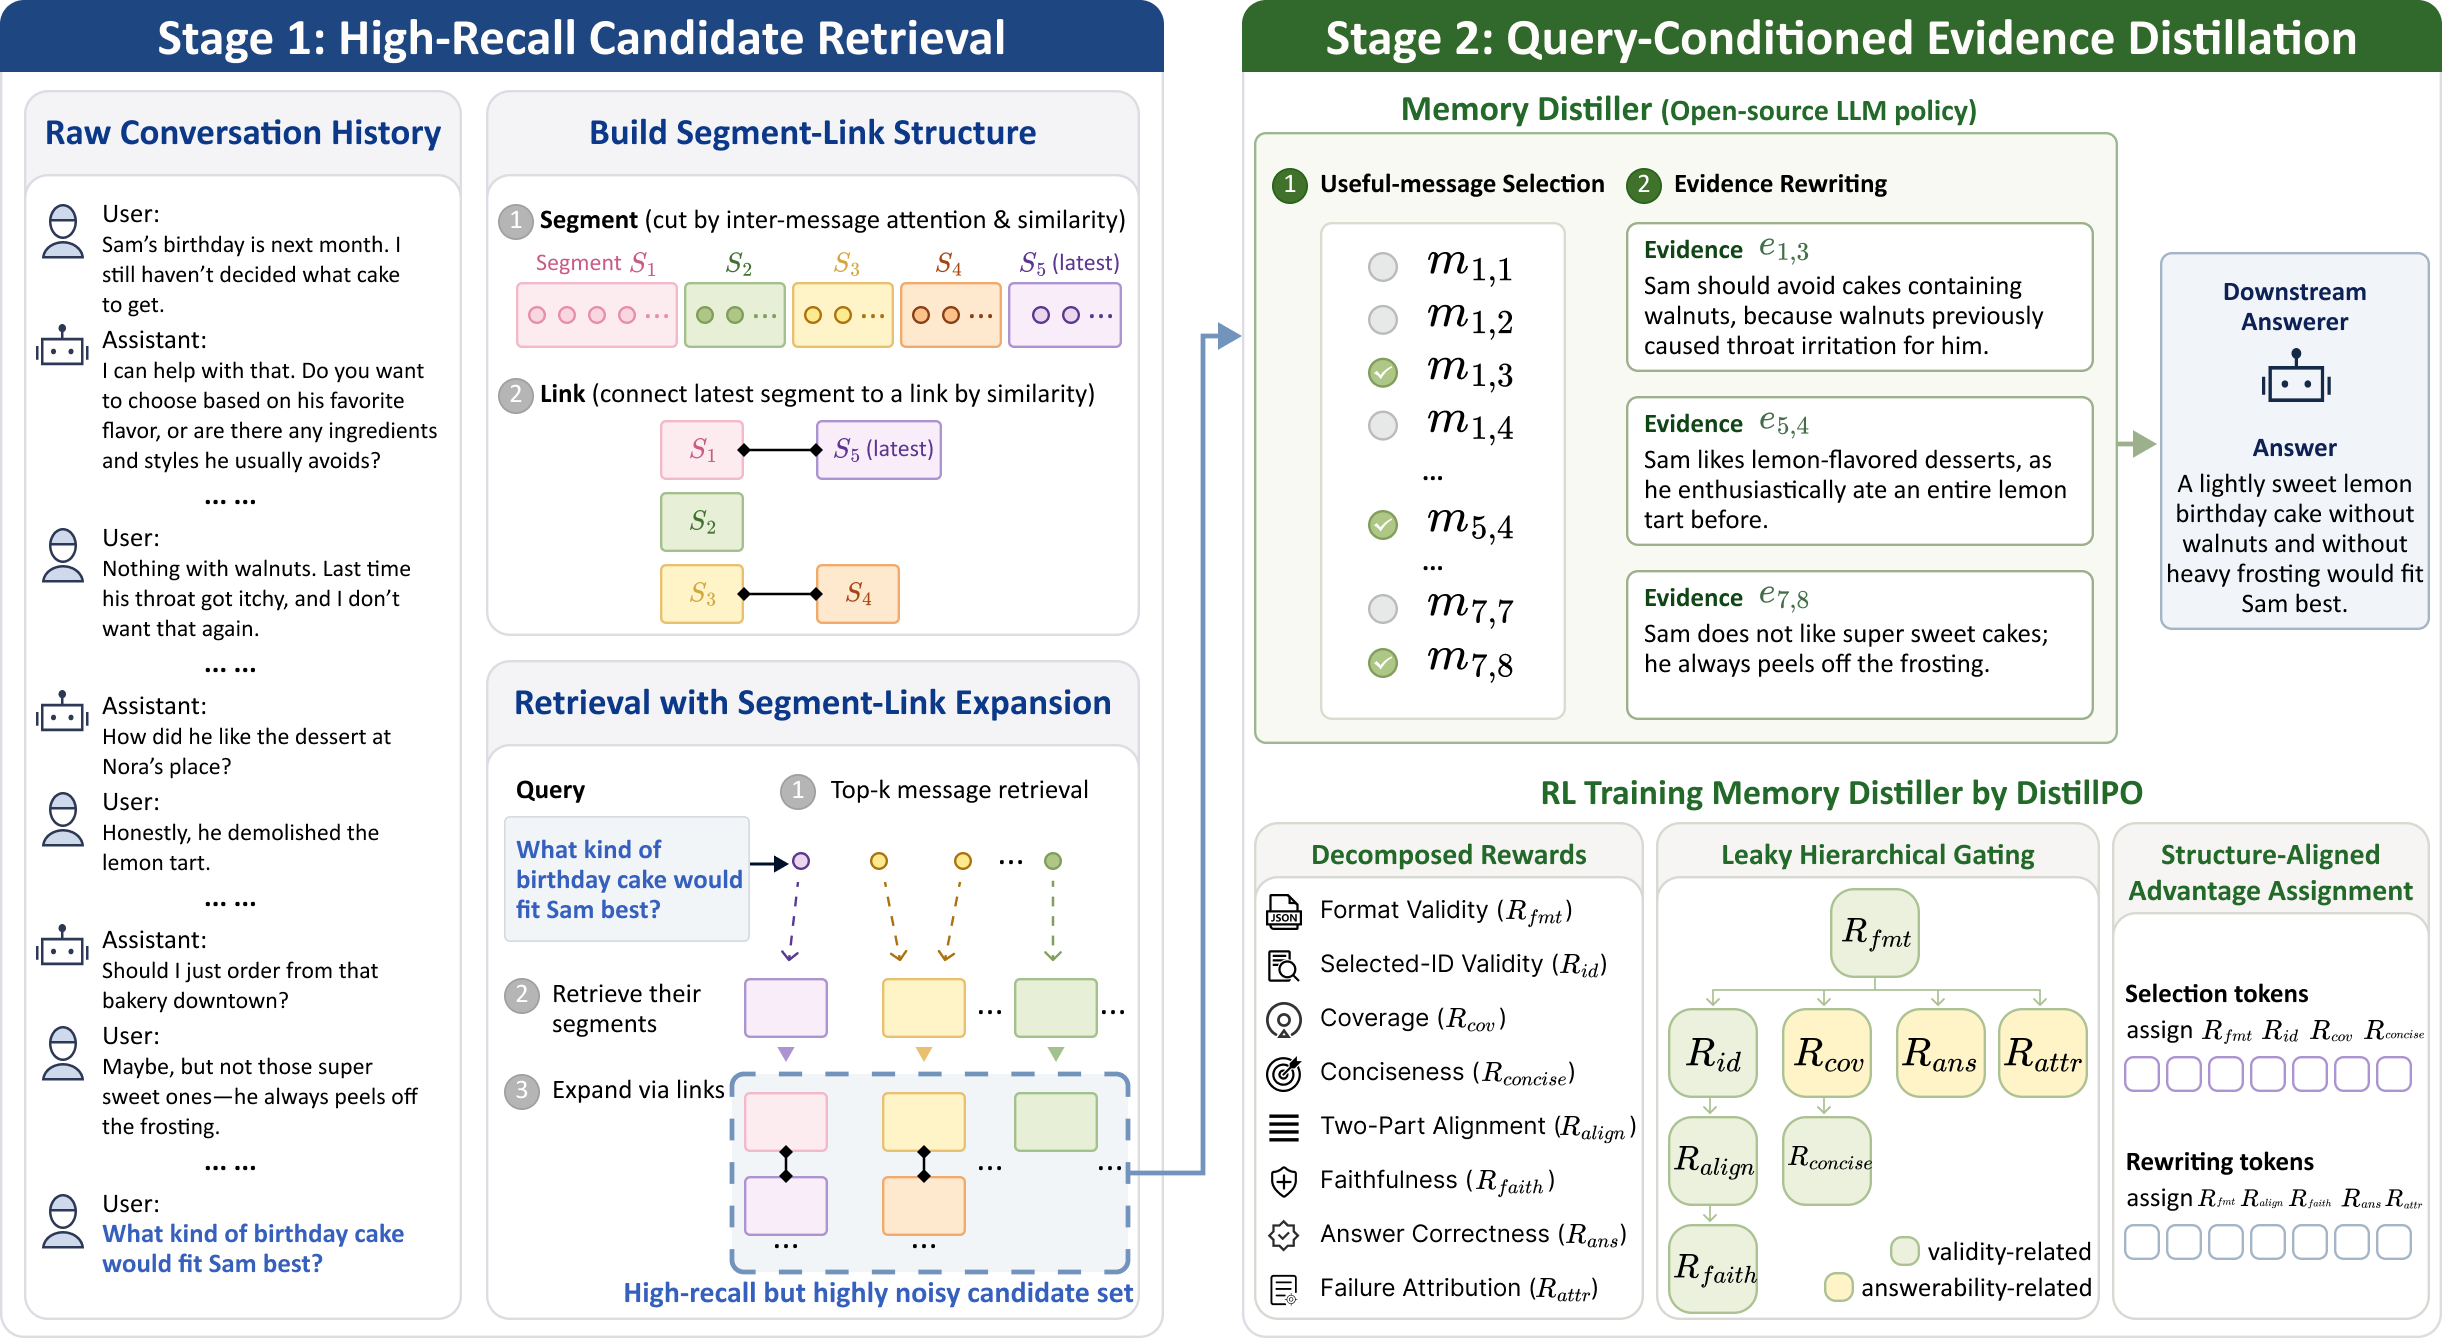
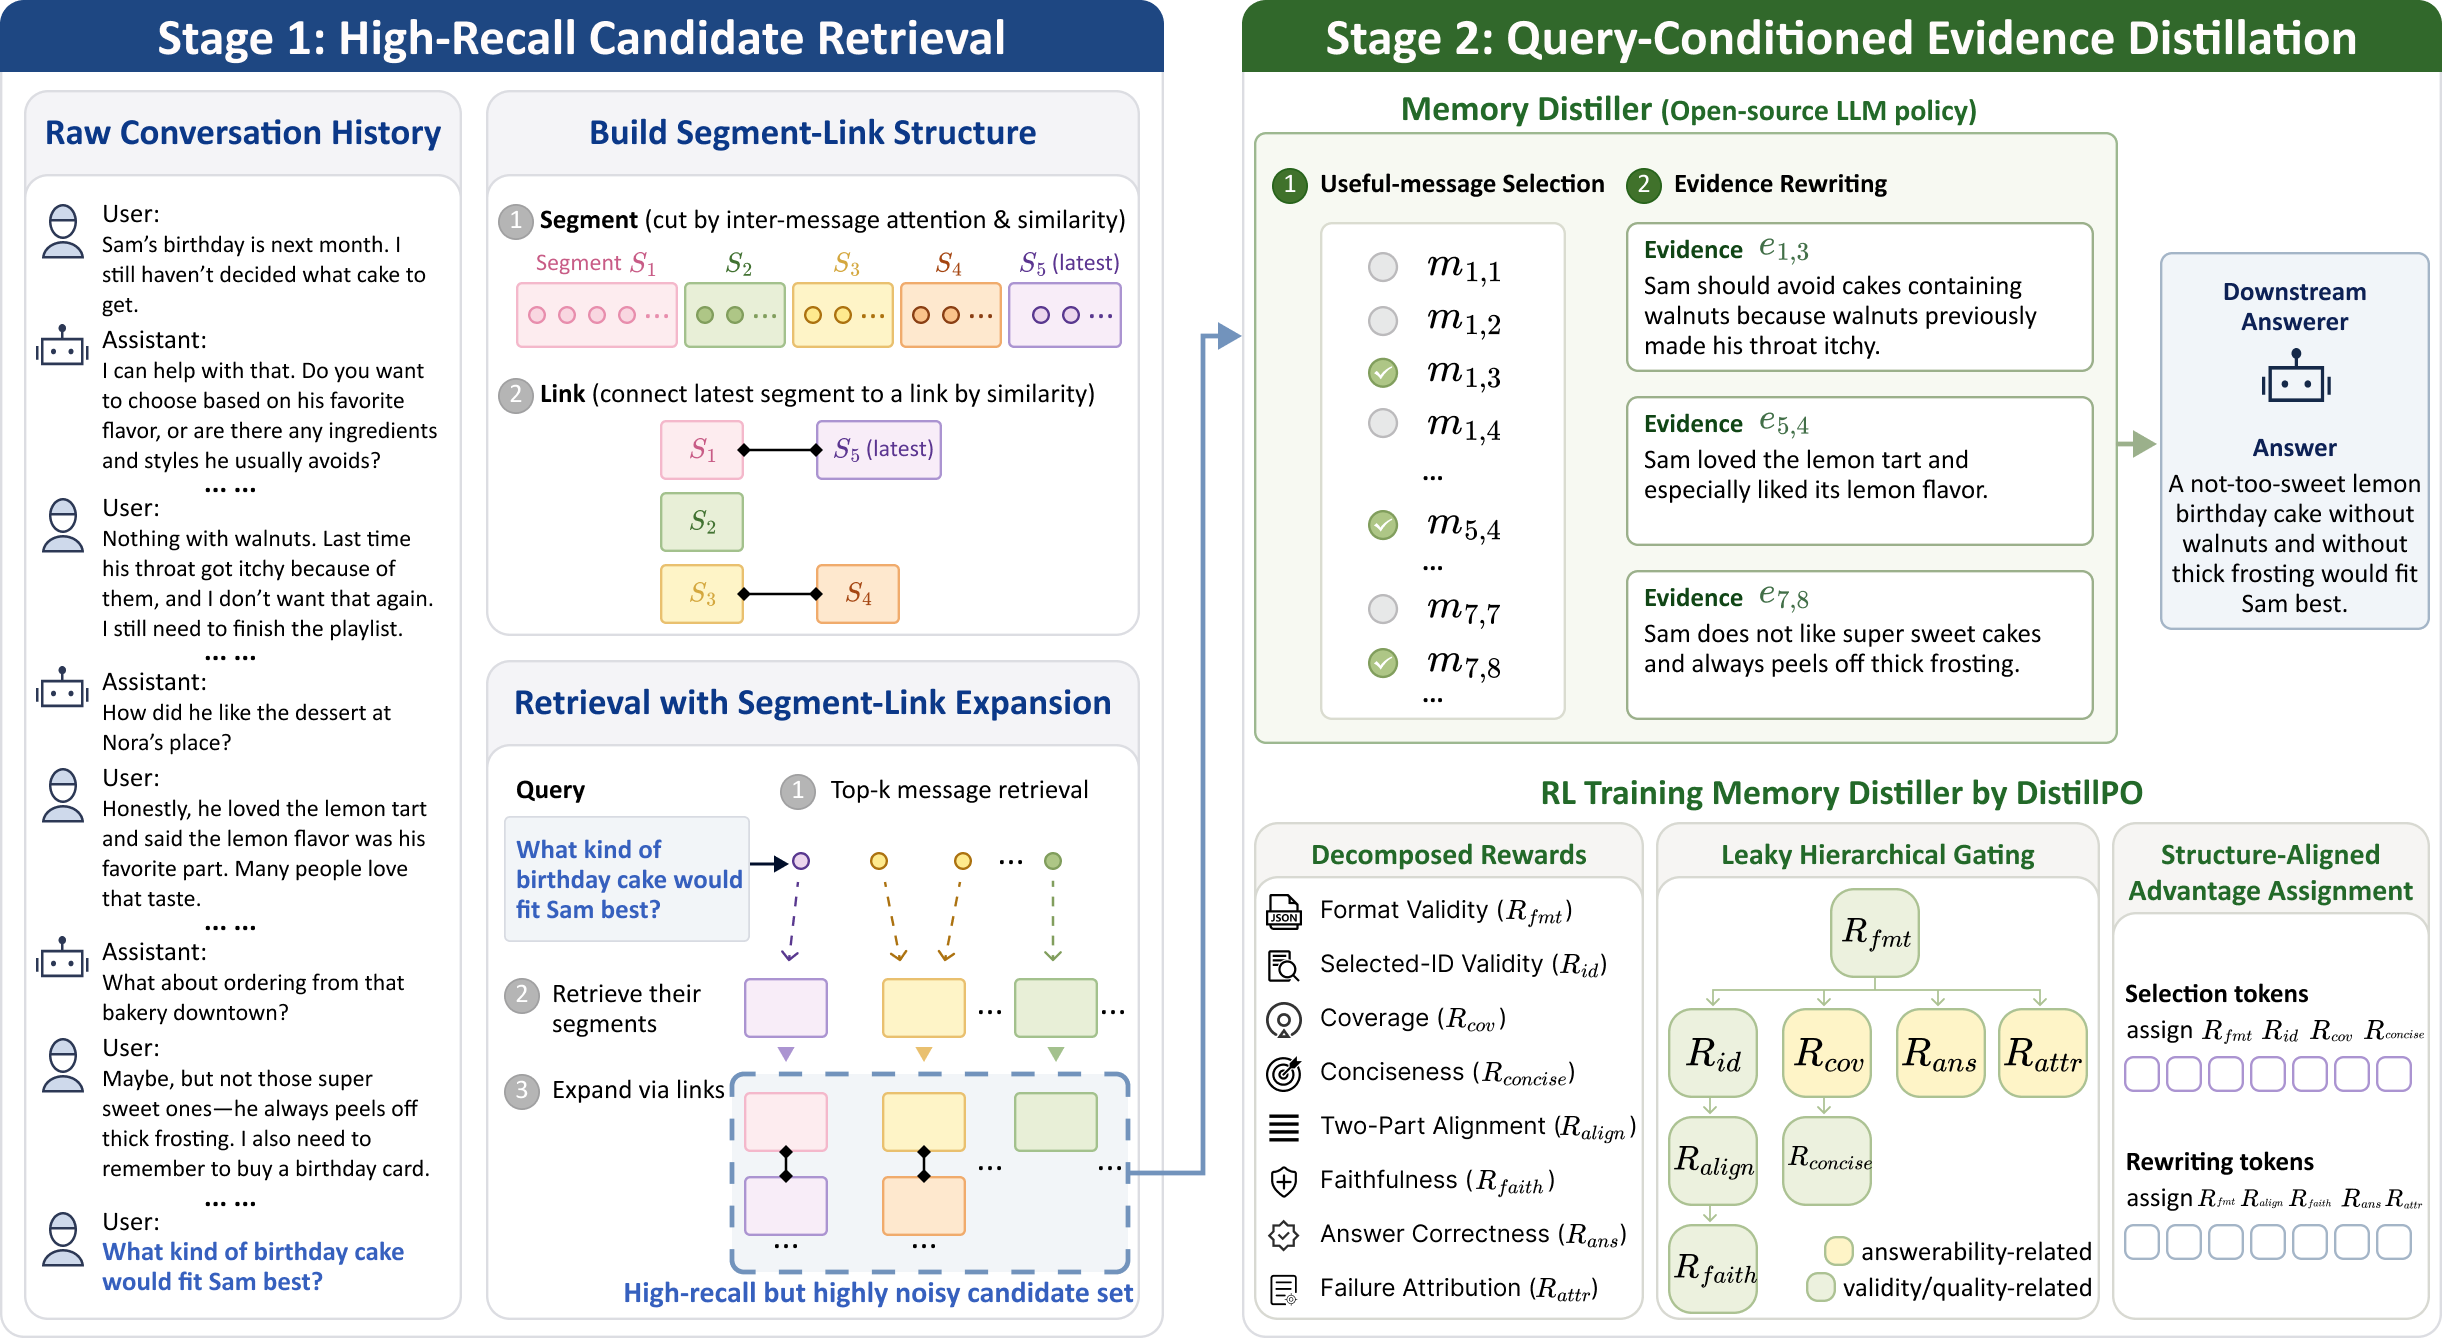
Update homepage

diff --git a/_pages/about.md b/_pages/about.md
@@ -53,9 +53,9 @@ IEEE Transactions on Visualization and Computer Graphics (VIS'26)
 <div class='paper-box'><div class='paper-box-image'><div><div class="badge">Preprint</div><img src='images/DeferMem.png' alt="sym" width="100%"></div></div>
 <div class='paper-box-text' markdown="1">
 
-[DeferMem: Query-Time Evidence Distillation via Reinforcement Learning for Long-Term Memory QA](https://arxiv.org/abs/2605.22411)
+[DeferMem: Query-Time Evidence Distillation via Reinforcement Learning for Long-Term Agent Memory](https://doi.org/10.48550/arXiv.2605.22411)
 
-**Jianing Yin**, Tan Tang
+**Jianing Yin**, Tan Tang, Yingcai Wu
 
 Under Review
 
